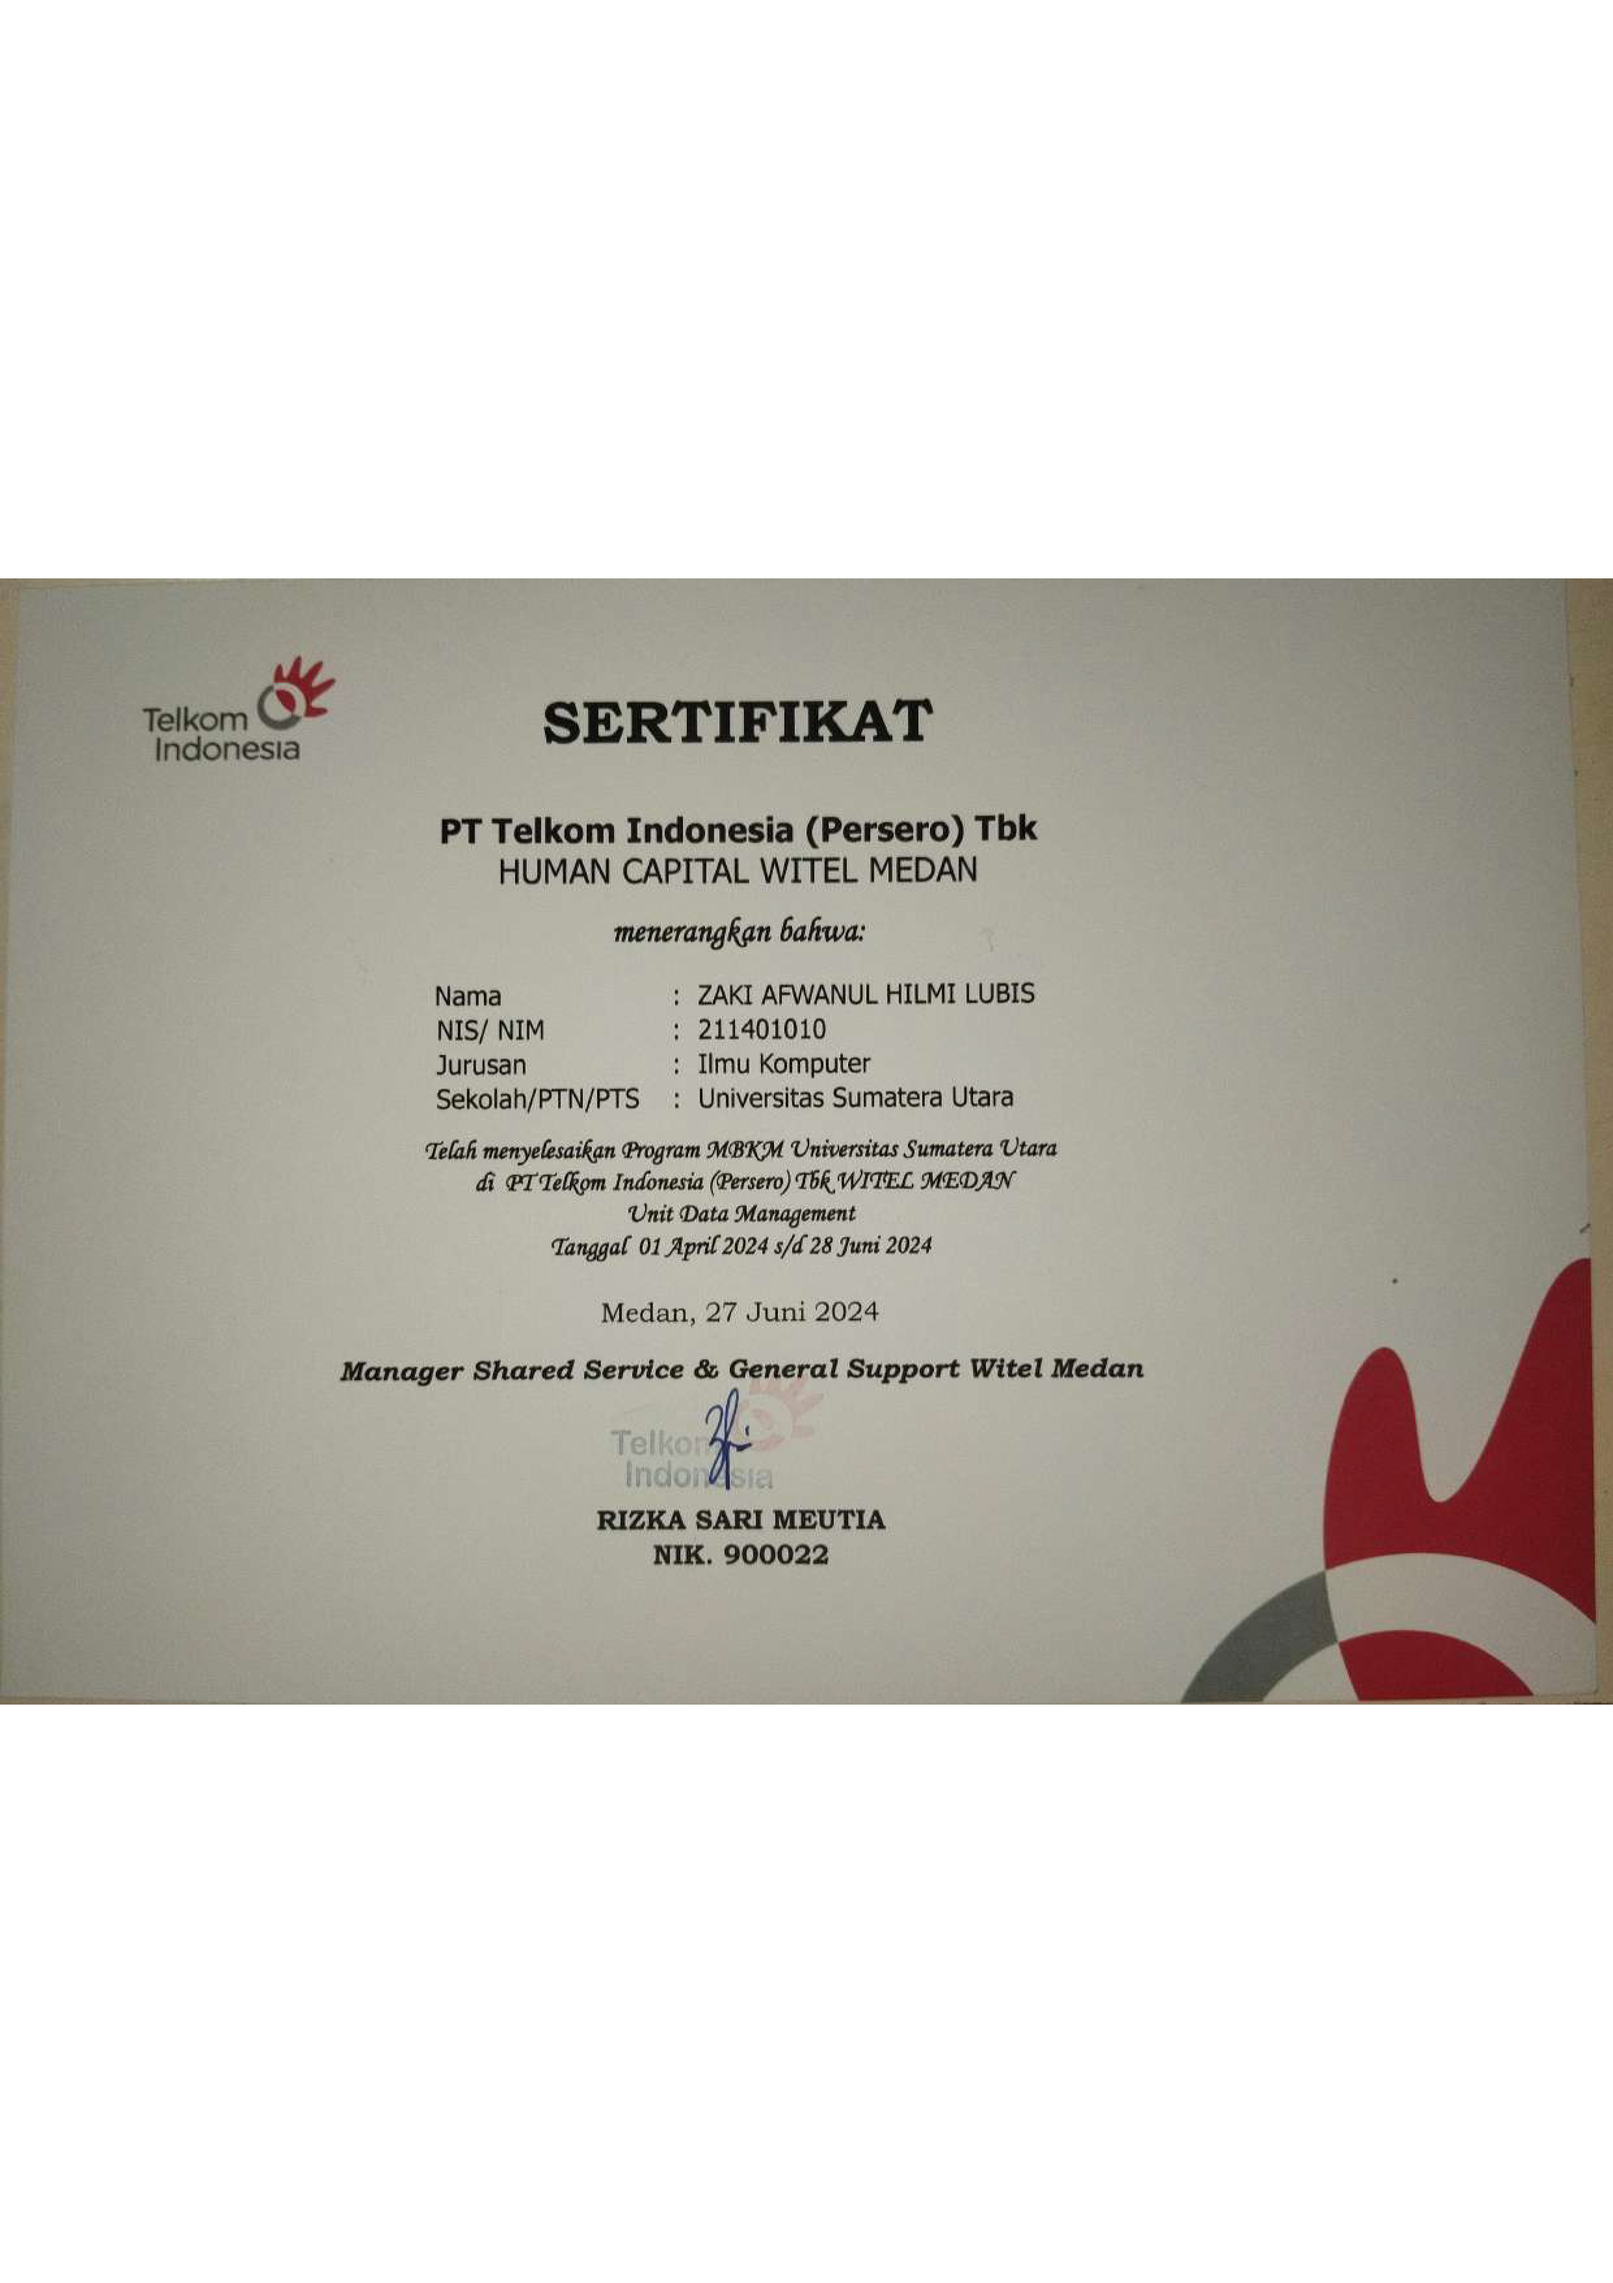
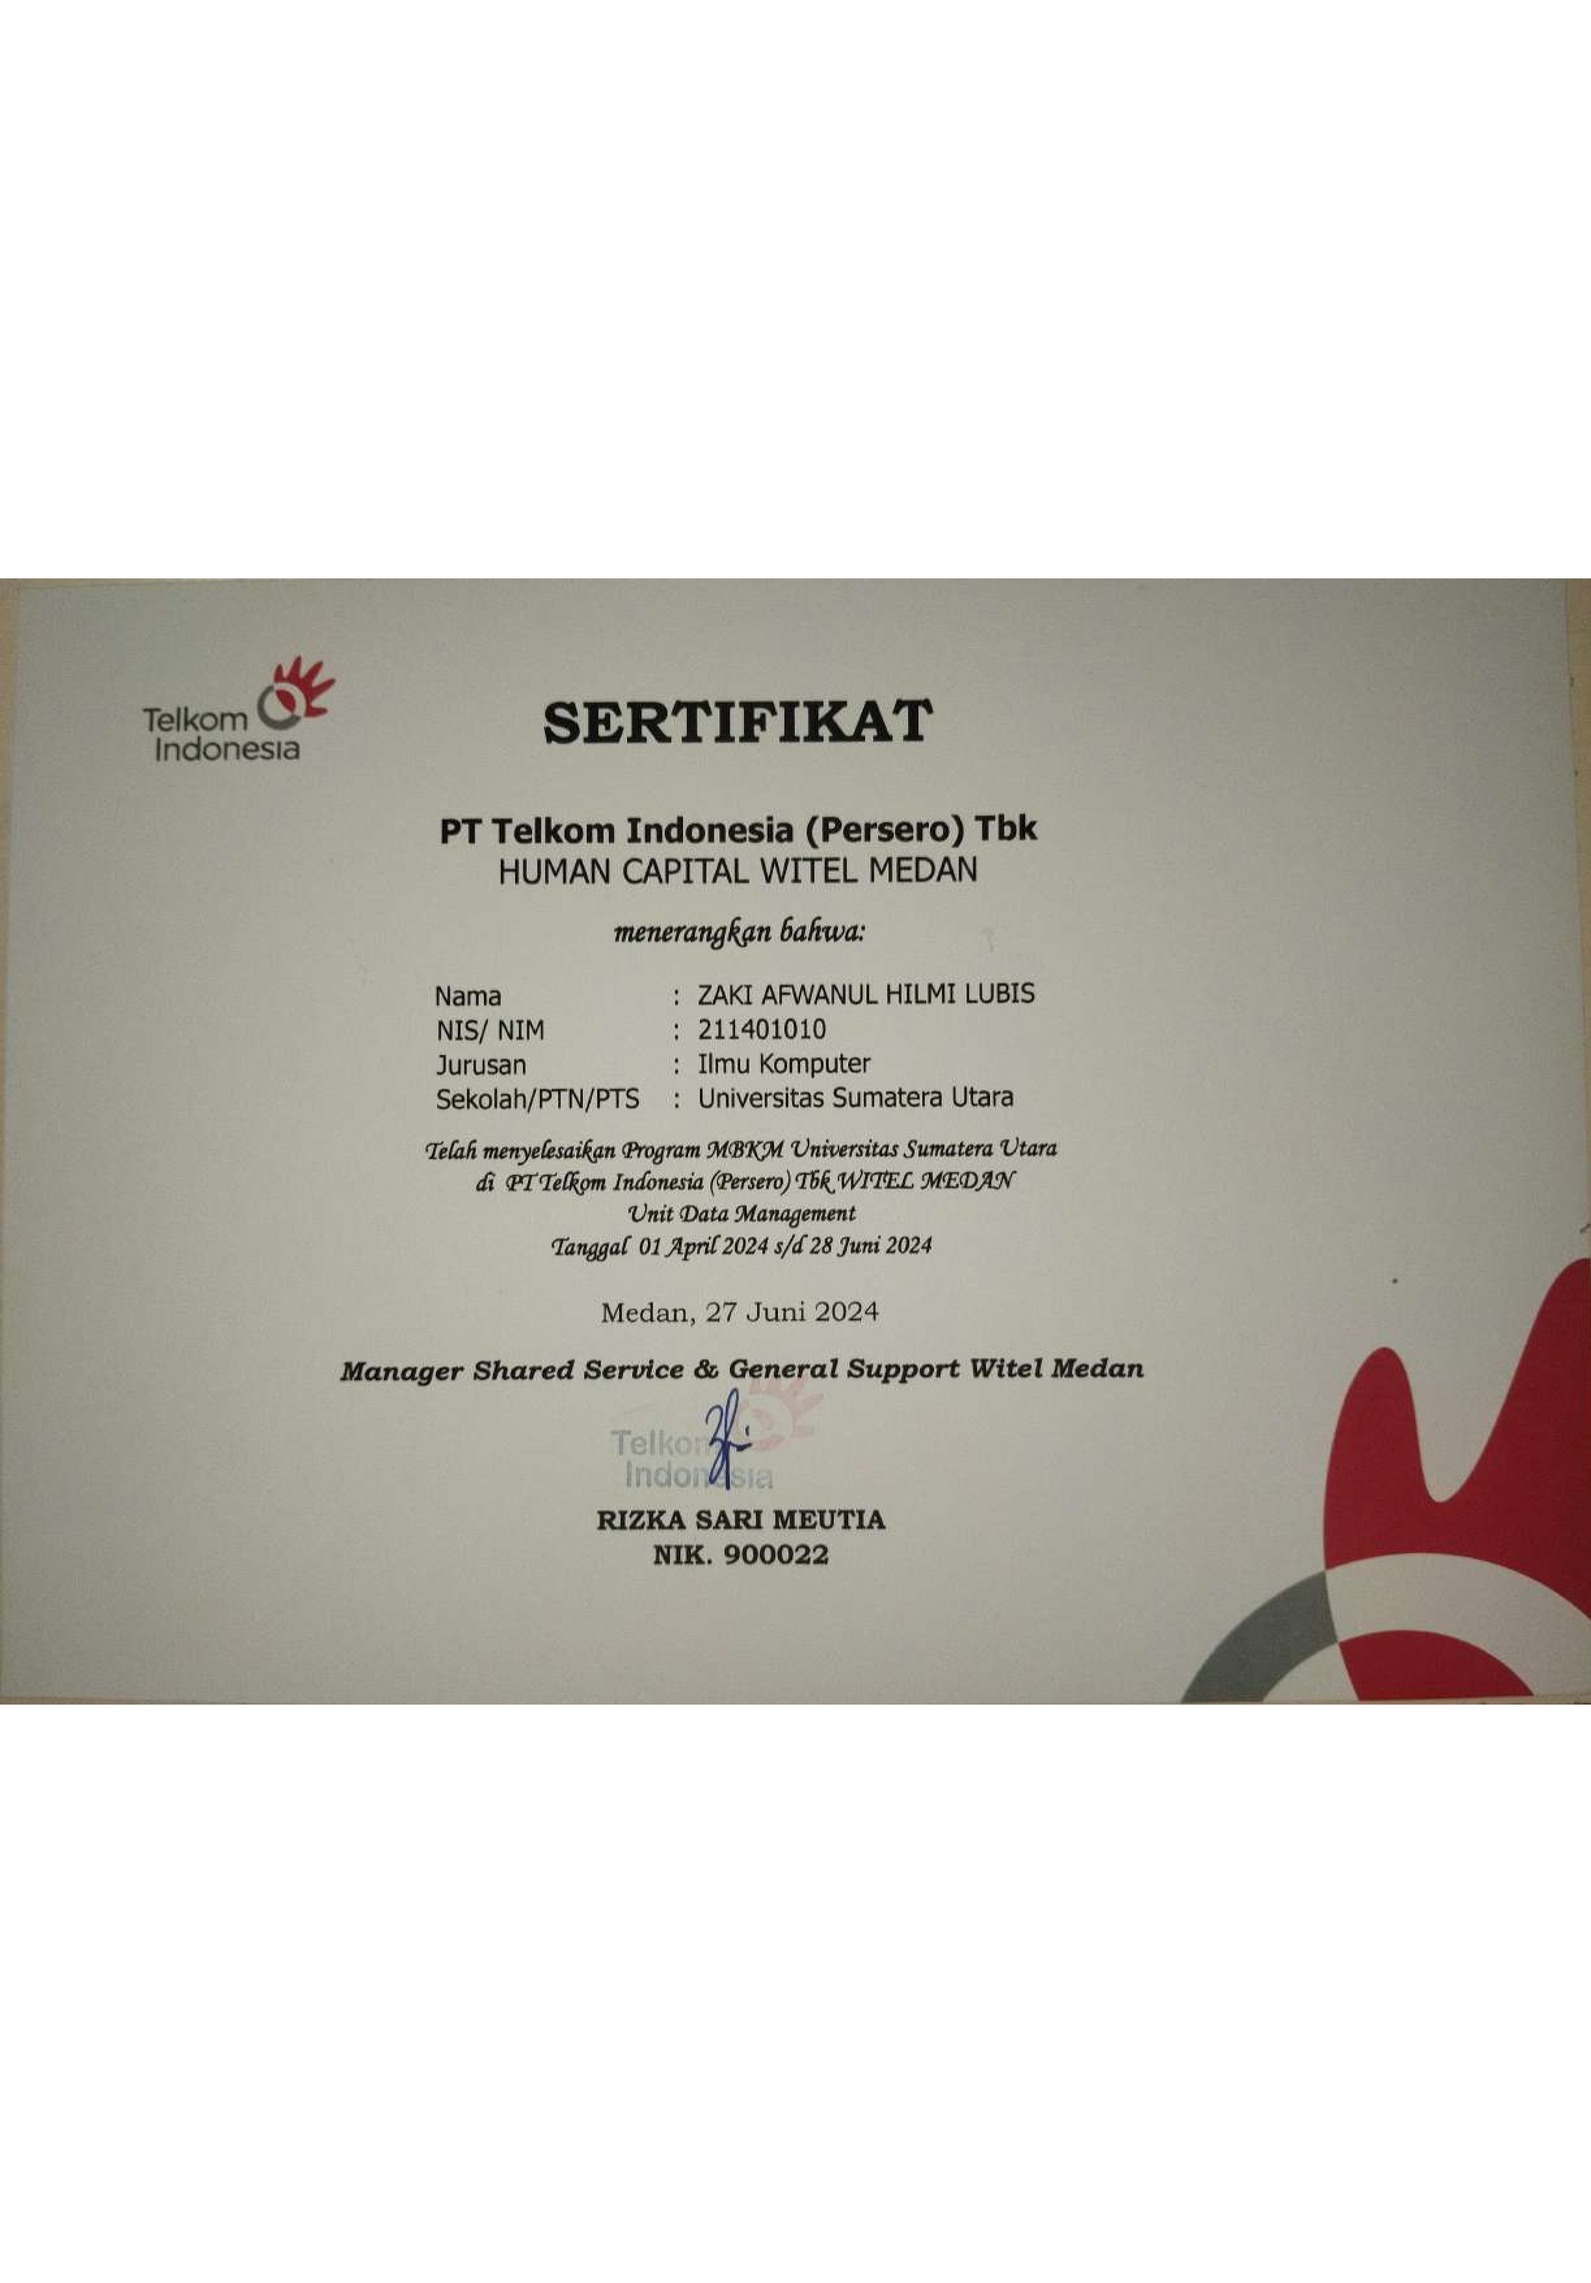
sertif

diff --git a/index.html b/index.html
@@ -1099,21 +1099,21 @@
       <div class="cert-icon">🥉</div>
       <div>
         <div class="cert-name">Juara 3 — Tarung Derajat Kejurda Umum Sumatera Utara 2019</div>
-        <button class="cert-link" onclick="openCertificate('Sertif/juara3.png', 'Juara 3 — Tarung Derajat Kejurda Umum Sumut 2019')">Lihat Sertifikat →</button>
+        <button class="cert-link" onclick="openCertificate('Sertif/Juara3.png', 'Juara 3 — Tarung Derajat Kejurda Umum Sumut 2019')">Lihat Sertifikat →</button>
       </div>
     </div>
     <div class="cert-card">
       <div class="cert-icon">🥇</div>
       <div>
         <div class="cert-name">Juara 1 — Tarung Derajat Kejurda Pelajar Piala GUBSU 2019</div>
-        <button class="cert-link" onclick="openCertificate('Sertif/juara1.png', 'Juara 1 — Tarung Derajat Kejurda Pelajar Piala GUBSU 2019')">Lihat Sertifikat →</button>
+        <button class="cert-link" onclick="openCertificate('Sertif/Juara1.png', 'Juara 1 — Tarung Derajat Kejurda Pelajar Piala GUBSU 2019')">Lihat Sertifikat →</button>
       </div>
     </div>
     <div class="cert-card">
       <div class="cert-icon">🥈</div>
       <div>
         <div class="cert-name">Juara 2 — Tarung Derajat Kejurda Pelajar Piala GUBSU 2019</div>
-        <button class="cert-link" onclick="openCertificate('Sertif/juara2.png', 'Juara 2 — Tarung Derajat Kejurda Pelajar Piala GUBSU 2019')">Lihat Sertifikat →</button>
+        <button class="cert-link" onclick="openCertificate('Sertif/Juara2.png', 'Juara 2 — Tarung Derajat Kejurda Pelajar Piala GUBSU 2019')">Lihat Sertifikat →</button>
       </div>
     </div>
     <div class="cert-card">
